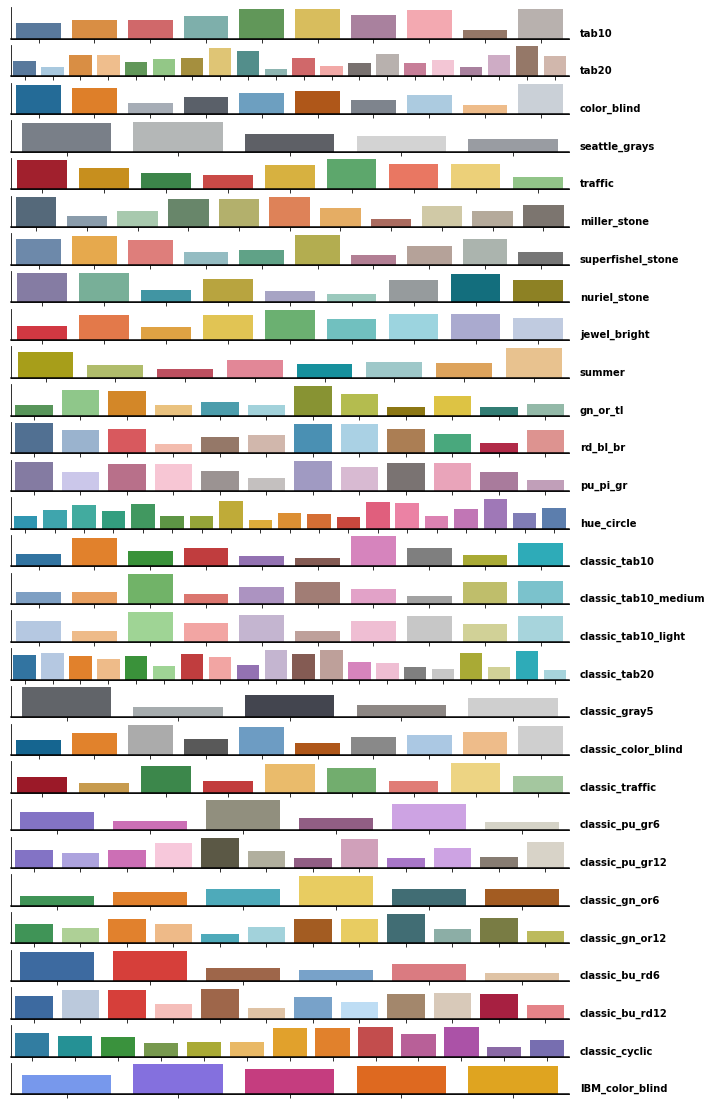
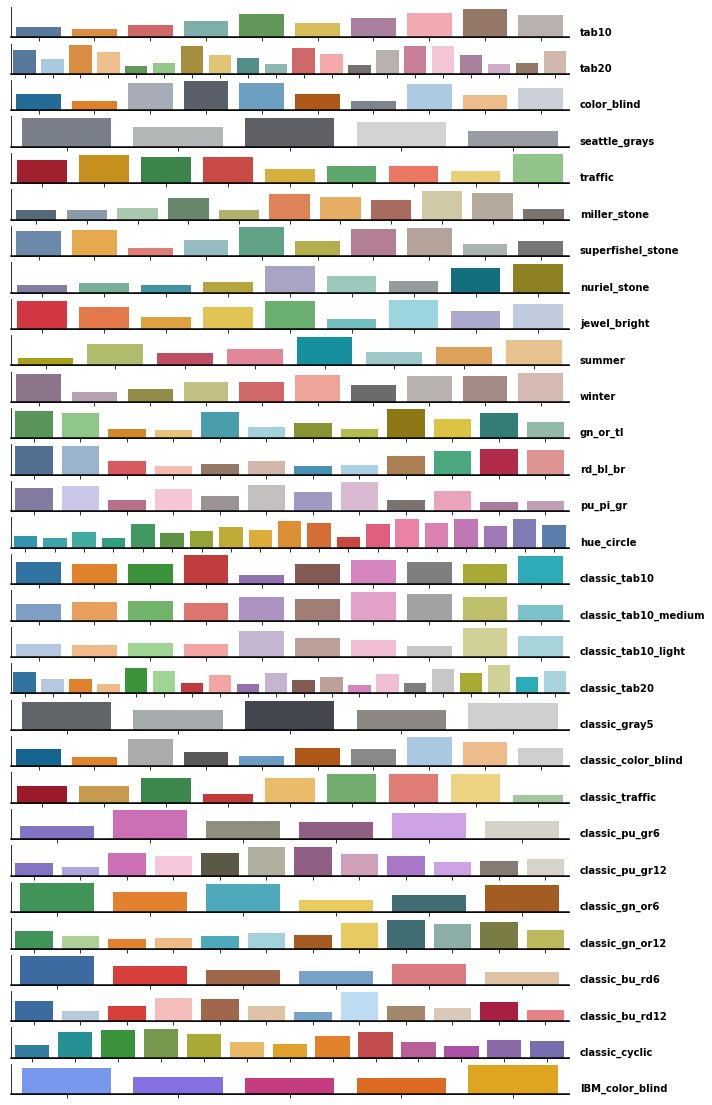
add tableau winter palette

diff --git a/moarpalettes/get_palette.py b/moarpalettes/get_palette.py
@@ -68,6 +68,11 @@ class summer(_cm):
     def __init__( self, path=os.path.join(os.path.dirname(__file__),'color_data/summer') ):
         super().__init__(path)
 
+class winter(_cm):
+    """New tableau winter palette."""
+    def __init__( self, path=os.path.join(os.path.dirname(__file__),'color_data/winter') ):
+        super().__init__(path)
+
 class gn_or_tl(_cm):
     """New tableau green-orange-teal palette."""
     def __init__( self, path=os.path.join(os.path.dirname(__file__),'color_data/green_orange_teal') ):
